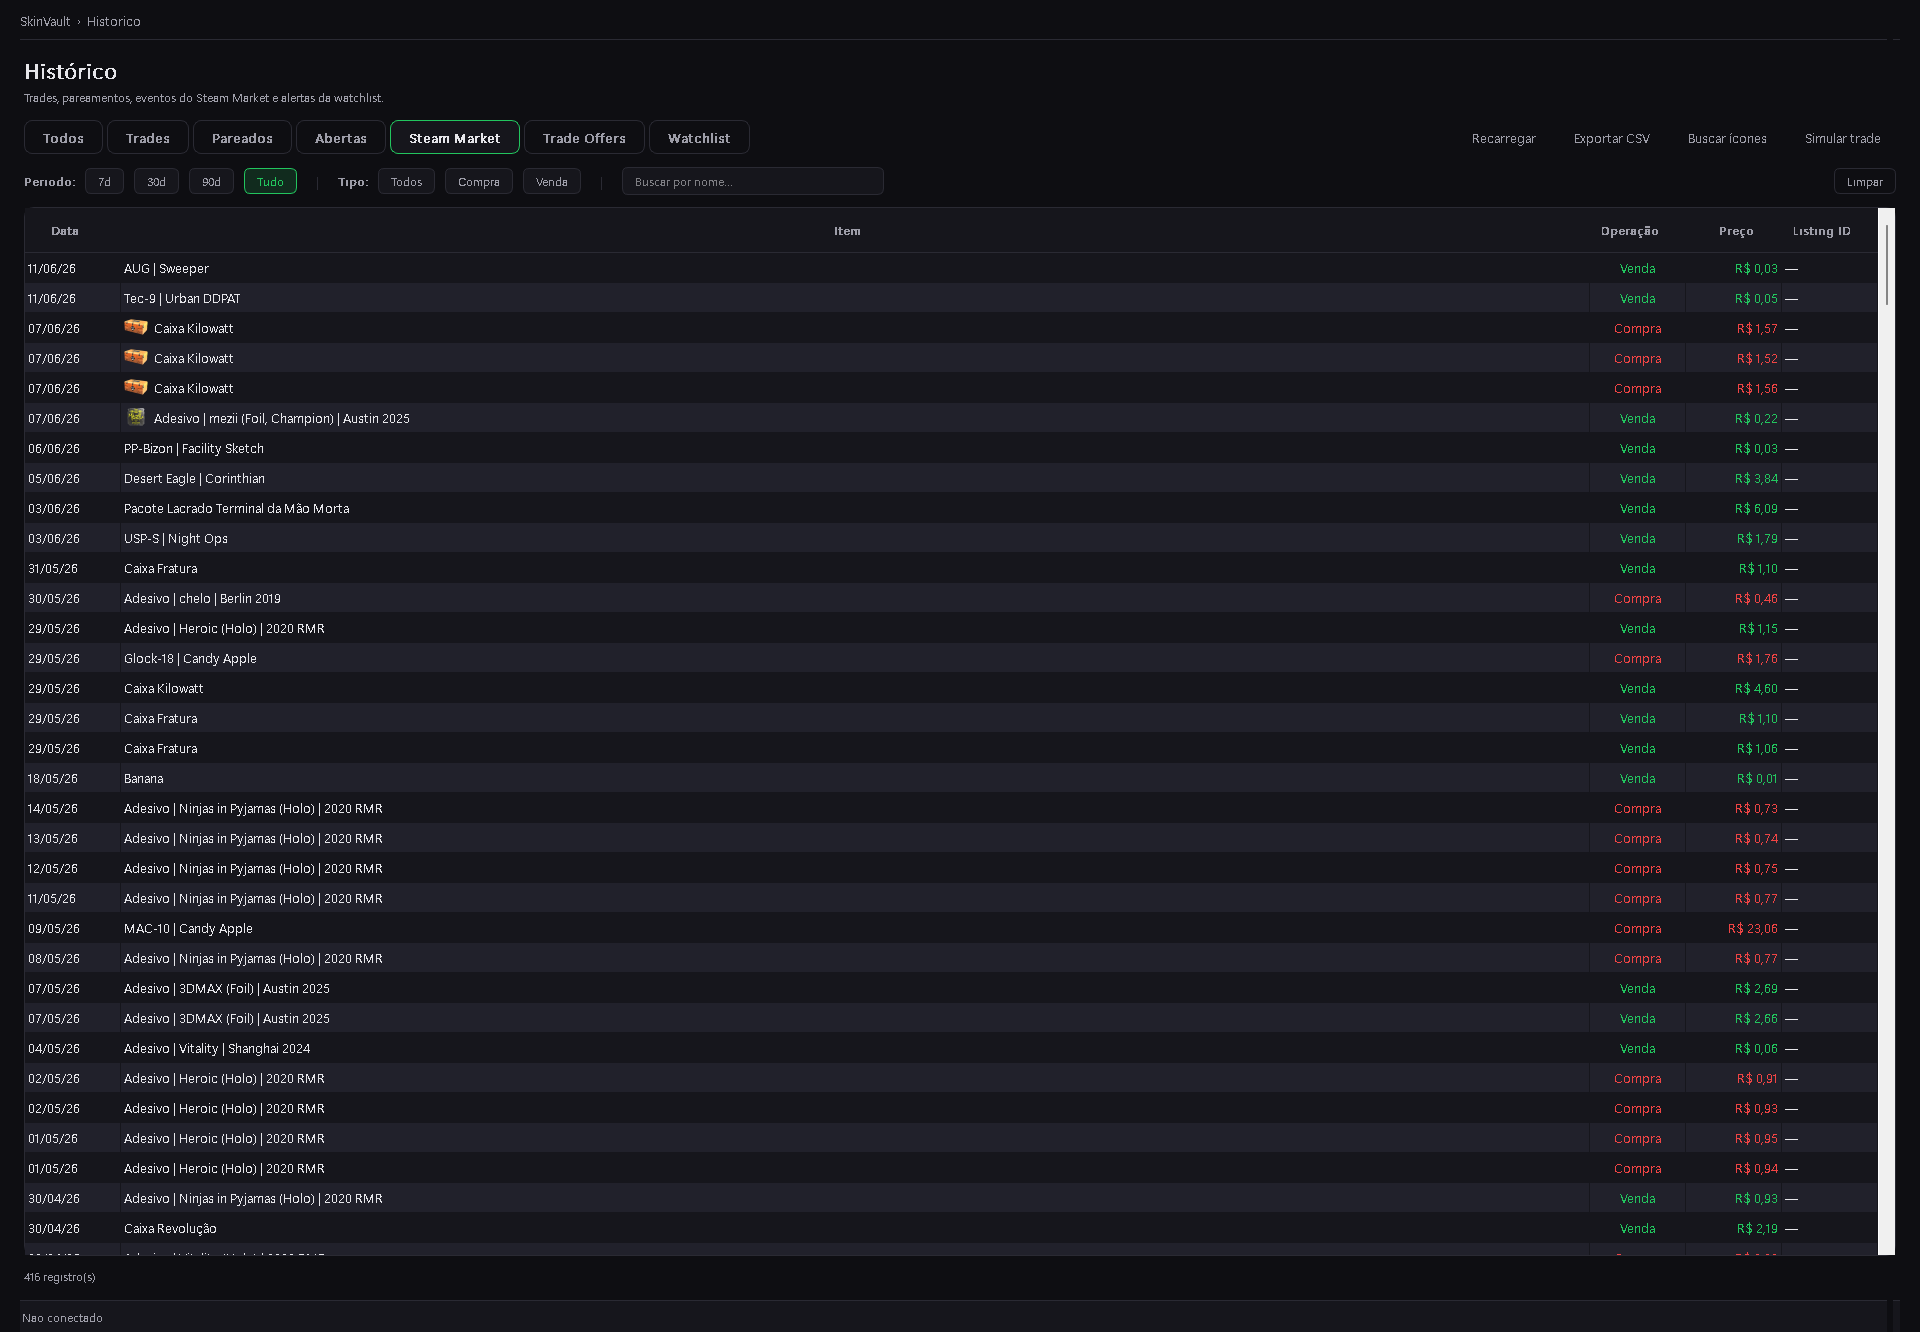
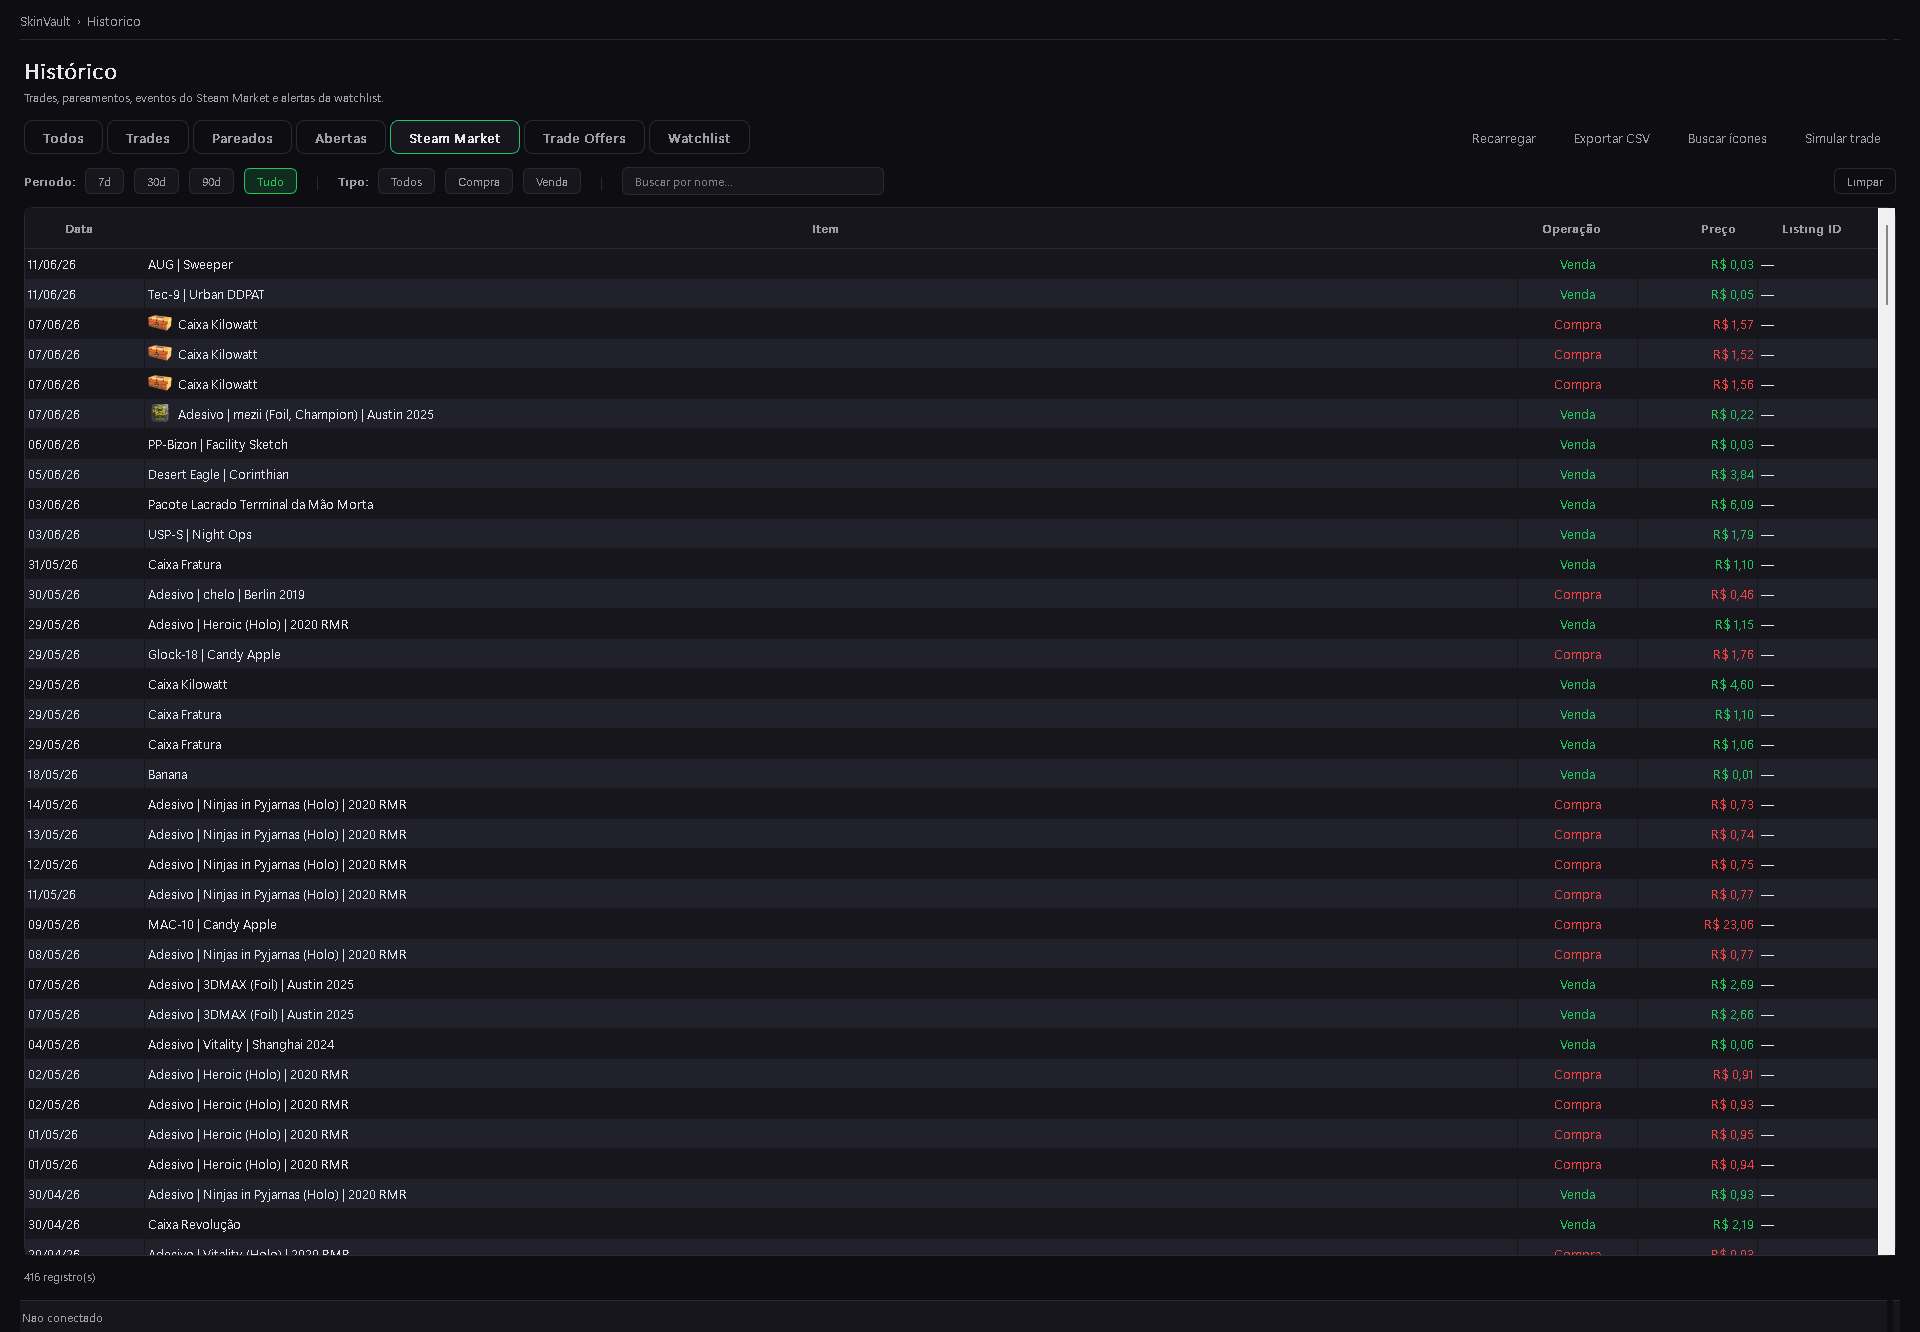
ui: headers de tabela sem truncar — padding QSS fora do sizeHint compensado
O padding declarado em QHeaderView::section (28px horizontal) nao e
contabilizado no sizeHint do ResizeToContents, causando truncamento
do primeiro caractere em headers alinhados a direita.

Fixes aplicados:
- padding QSS reduzido de 10px 16px 10px 12px para 8px 10px 8px 10px
- setMinimumSectionSize(120) em configure_table
- nova _ensure_header_width() que forca resizeSection com 50px de folga
- Watchlist migrou de ResizeToContents para Interactive (evita que Qt
  sobrescreva o resize na validacao da secao vazia)
- test_table_headers_nao_truncam: smoke que verifica colunas longas
  tem espaco extra alem do minimo global

Hotfix da Frente P (0be1949).

diff --git a/tests/test_ui_smoke.py b/tests/test_ui_smoke.py
@@ -6900,6 +6900,47 @@ def test_watchlist_tem_coluna_score():
     assert hdr2.text() == "Confian\u00e7a"
 
 
+def test_table_headers_nao_truncam():
+    """Headers de todas as tabelas tem espaco para o texto completo.
+
+    O padding QSS em QHeaderView::section (20px horizontal) nao e
+    contabilizado no sizeHint do ResizeToContents.  Esta validação
+    confirma que _ensure_header_width foi executada corrigindo as
+    colunas cujo texto nao caberia no minimo global.
+    """
+    from PyQt6.QtCore import Qt
+    from PyQt6.QtWidgets import QHeaderView
+    from skinvault.prices import PriceCache
+    from skinvault.ui.watchlist_screen import WatchlistScreen
+    screen = WatchlistScreen(PriceCache(ttl=3600))
+    tbl = screen._table
+    hh = tbl.horizontalHeader()
+    min_sz = hh.minimumSectionSize()
+    for col in range(tbl.columnCount()):
+        item = hh.model().headerData(col, Qt.Orientation.Horizontal)
+        if item is None:
+            continue
+        if hh.isSectionHidden(col):
+            continue
+        text = str(item)
+        rez = hh.sectionResizeMode(col)
+        sz = hh.sectionSize(col)
+        # Stretch columns podem estar no minimo e ok
+        if rez == QHeaderView.ResizeMode.Stretch:
+            assert sz >= min_sz, (
+                f"col {col} '{text}' stretch sz={sz} < min={min_sz}"
+            )
+            continue
+        # Interactive: verifica se o texto cabe no minimo.
+        # Se nao cabe e sz == min, _ensure_header_width nao agiu.
+        text_w = len(text) * 6  # ~6px por char em 9pt
+        if text_w + 40 > min_sz:
+            assert sz > min_sz, (
+                f"col {col} '{text}' sz={sz} == min={min_sz} "
+                f"— _ensure_header_width nao compensou"
+            )
+
+
 def test_watchlist_coluna_score_renderiza_valor():
     """item['current_score'] aparece na coluna como int."""
     import time as _t

diff --git a/skinvault/ui/theme.py b/skinvault/ui/theme.py
@@ -259,7 +259,7 @@ def table_style() -> str:
         f"QHeaderView::section {{ background: {BG_ELEVATED};"
         f" color: {TEXT_MUTED}; border: none;"
         f" border-bottom: 1px solid {BORDER};"
-        f" padding: 10px 16px 10px 12px;"
+         f" padding: 8px 10px 8px 10px;"
         f" font-weight: 600; font-size: {FS_MUTED}; }}"
         f"QHeaderView::down-arrow {{ width: 8px; height: 8px;"
         f" subcontrol-origin: padding;"
@@ -283,6 +283,27 @@ def card_style(radius: int = 10) -> str:
         f" border-top: 1px solid #30303A;"
         f" border-radius: {radius}px; }}"
     )
+
+
+def _ensure_header_width(table: QTableWidget, hh: QHeaderView) -> None:
+    """Compensa o padding QSS que QHeaderView ignora no sizeHint.
+
+    O padding declarado em QHeaderView::section (QSS) nao e considerado
+    no calculo de ResizeToContents, entao headers com muito texto e
+    alinhamento a direita truncam o primeiro caractere.  Esta funcao
+    calcula o espaco necessario via fontMetrics e garante sectionSize
+    >= text_width + padding_h + sort_indicator_room (~50px).
+    """
+    fm = table.fontMetrics()
+    padding_room = 50
+    for col in range(table.columnCount()):
+        item = table.horizontalHeaderItem(col)
+        if item is None:
+            continue
+        text_w = fm.horizontalAdvance(item.text())
+        needed = max(text_w + padding_room, 120)
+        if hh.sectionSize(col) < needed:
+            hh.resizeSection(col, needed)
 
 
 def align_table_columns(
@@ -392,4 +413,4 @@ def configure_table(table: QTableWidget) -> None:
     table.setSortingEnabled(True)
     table.setStyleSheet(table_style())
     hh = table.horizontalHeader()
-    hh.setMinimumSectionSize(96)
+    hh.setMinimumSectionSize(120)

diff --git a/skinvault/ui/watchlist_screen.py b/skinvault/ui/watchlist_screen.py
@@ -301,7 +301,9 @@ class WatchlistScreen(QWidget):
         for col in (self.COL_TARGET, self.COL_DISTANCE, self.COL_PRICE,
                     self.COL_STATUS, self.COL_RULES):
             hh.setSectionResizeMode(col,
-                                    QHeaderView.ResizeMode.ResizeToContents)
+                                    QHeaderView.ResizeMode.Interactive)
+        # Garante que padding QSS ignorado no sizeHint nao trunque headers
+        t._ensure_header_width(self._table, hh)
         # Score e Confianca: ocultos ate Validar Score
         self._table.setColumnHidden(self.COL_SCORE, True)
         self._table.setColumnHidden(self.COL_CONFIDENCE, True)

diff --git a/ROADMAP_UI.md b/ROADMAP_UI.md
@@ -485,7 +485,9 @@ Ajuda futuro agente / contribuidor a entender o design system rapidamente.
 
 ~~**Aceite**: print 07 com headers completos, status 3-estados e coluna de distância; zebra sutil (alpha ≤0.02 — não pode "listrar"); History com 416 rows fluida.~~
 
-**Resultado**: `configure_table` ganhou `hh.setMinimumSectionSize(96)` para headers íntegros. Watchlist: 3 estados de status (Sem regras/Monitorando/Disparado) com cores TEXT_MUTED/STEAM_BLUE/WARN e tooltips descritivos; nova coluna "Distância ao alvo" após o preço-alvo com cor ACCENT (favorável) ou DANGER (acima do alvo) e tooltip explicativa; colunas Score e Confiança ocultas inicialmente (reveladas após "Validar Score"). 1309 tests verdes. Screenshots regenerados com todos os headers completos.
+**Resultado**: `configure_table` ganhou `hh.setMinimumSectionSize(96)` para headers íntegros. Watchlist: 3 estados de status (Sem regras/Monitorando/Disparado) com cores TEXT_MUTED/STEAM_BLUE/WARN e tooltips descritivos; nova coluna "Distância ao alvo" após o preço-alvo com cor ACCENT (favorável) ou DANGER (acima do alvo) e tooltip explicativa; colunas Score e Confiança ocultas inicialmente (reveladas após "Validar Score"). 1309 tests verdes. Screenshots regenerados.
+
+**Hotfix 2** (`ecfba84..HEAD`): headers AINDA truncavam no print real — causa raiz: padding de `QHeaderView::section` (28px horizontal) não contabilizado no sizeHint do `ResizeToContents`/`Interactive`. Corrigido via (a) redução do padding QSS de `10px 16px 10px 12px` para `8px 10px 8px 10px`; (b) `setMinimumSectionSize(120)`; (c) nova função `_ensure_header_width()` que força `resizeSection` com folga de 50px; (d) Watchlist migrou de `ResizeToContents` para `Interactive` (evita que Qt sobrescreva o resize). Smoke test `test_table_headers_nao_truncam` valida que colunas com texto longo (> que cabe no mínimo) recebem espaço extra. 1310 tests verdes.
 
 ### Frente Q — Empty states acionáveis + fim dos charts-oceano (esforço: 2-3h, impact: alto) [deps: M]
 
